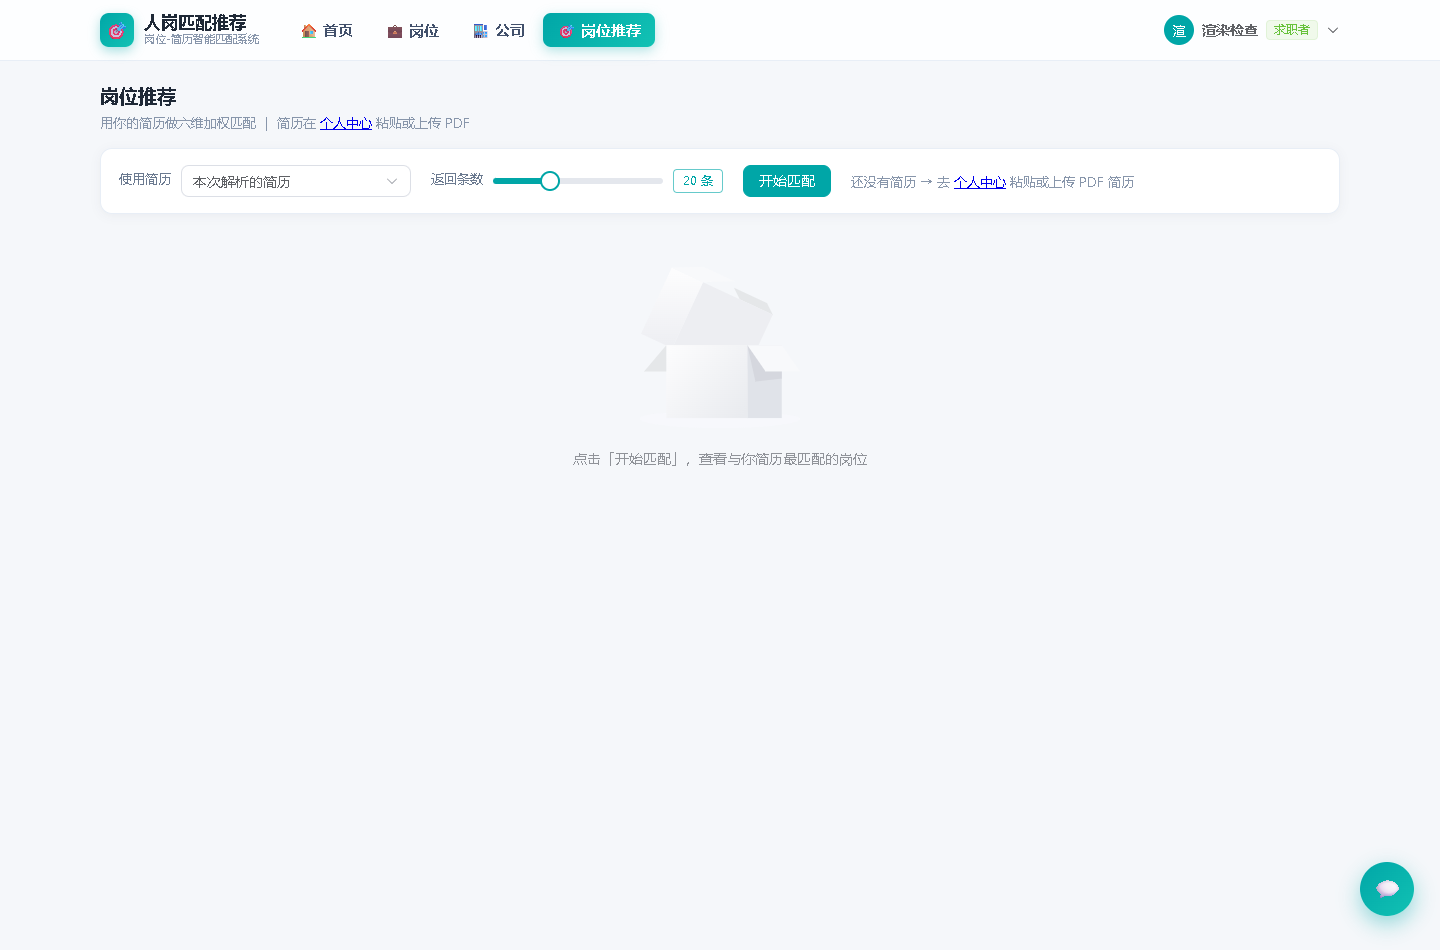
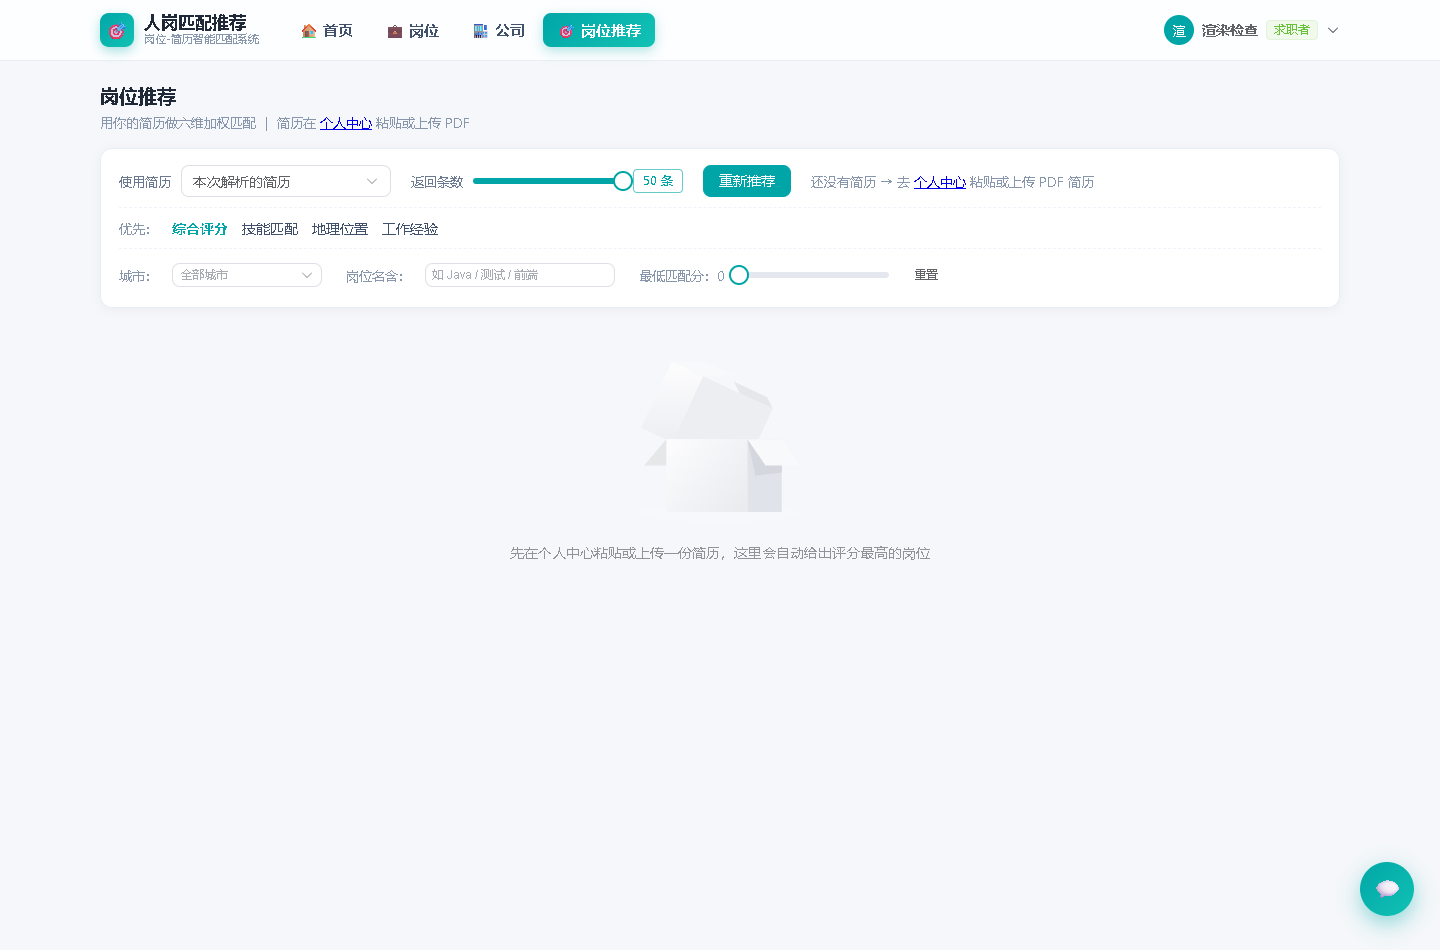
任务11: 岗位推荐页改版（删除顶部5个指标卡与左侧筛选栏；进入页面自动拉满Top-50；优先维度综合/技能/地理/经验移到顶部可切换重排）；修掉选中已存简历未同步store导致自动匹配静默不执行的缺陷；渲染检查更新断言

diff --git a/web/src/views/MatchView.vue b/web/src/views/MatchView.vue
@@ -6,12 +6,12 @@
       <router-link to="/profile">个人中心</router-link> 粘贴或上传 PDF
     </div>
 
-    <!-- 匹配控制条 -->
+    <!-- ① 顶部控制 + 筛选（全部在顶部，没有侧边栏） -->
     <div class="zq-card pad">
       <div class="ctrl">
         <div class="fld">
           <span class="lb">使用简历</span>
-          <el-select v-model="src" style="width:230px" placeholder="选择简历">
+          <el-select v-model="src" style="width:210px" placeholder="选择简历">
             <el-option label="本次解析的简历" value="current" :disabled="!resume.resumeId" />
             <el-option v-for="r in savedList" :key="r.id"
                        :label="'📁 ' + r.title" :value="'saved:' + r.id" />
@@ -19,101 +19,95 @@
         </div>
         <div class="fld">
           <span class="lb">返回条数</span>
-          <el-slider v-model="topN" :min="5" :max="50" :step="5" style="width:170px" />
+          <el-slider v-model="topN" :min="10" :max="50" :step="10" style="width:150px" />
           <el-tag effect="plain">{{ topN }} 条</el-tag>
         </div>
-        <el-button type="primary" :loading="loading" @click="doMatch">开始匹配</el-button>
+        <el-button type="primary" :loading="loading" @click="doMatch">重新推荐</el-button>
         <span v-if="!resume.canMatch()" class="muted">
           还没有简历 → 去 <router-link to="/profile">个人中心</router-link> 粘贴或上传 PDF 简历
         </span>
       </div>
-    </div>
 
-    <!-- 结果区 -->
-    <div v-if="result" style="margin-top:16px">
-      <div class="kpi-row">
-        <div class="kpi"><div class="v">{{ result.推荐数 }}</div><div class="l">推荐岗位数</div></div>
-        <div class="kpi"><div class="v">{{ result.打分范围 }}</div><div class="l">打分范围（个岗位）</div></div>
-        <div class="kpi"><div class="v">{{ result.权重版本 }}</div><div class="l">匹配权重版本</div></div>
-        <div class="kpi"><div class="v">{{ result.耗时秒 }} s</div><div class="l">全量打分耗时</div></div>
-        <div class="kpi"><div class="v">{{ filtered.length }}</div><div class="l">当前筛选后条数</div></div>
+      <!-- 优先维度（点一下换排序口径） -->
+      <div class="frow">
+        <span class="flb">优先：</span>
+        <a v-for="p in PRIORITIES" :key="p.value" :class="{ on: priority === p.value }"
+           @click="priority = p.value">{{ p.label }}</a>
       </div>
 
-      <div class="layout">
-        <!-- 左侧筛选栏（招聘网站风格） -->
-        <aside>
-          <div class="zq-card pad">
-            <div class="zq-section" style="margin-top:0">筛选</div>
-            <div class="lb">城市</div>
-            <el-select v-model="fCity" clearable placeholder="全部城市" style="width:100%">
-              <el-option v-for="c in cities" :key="c" :label="c" :value="c" />
-            </el-select>
-            <div class="lb" style="margin-top:12px">岗位名称含</div>
-            <el-input v-model="fKw" clearable placeholder="如 Java / 测试 / 前端" />
-            <div class="lb" style="margin-top:12px">最低匹配分：{{ fScore }}</div>
-            <el-slider v-model="fScore" :min="0" :max="100" :step="5" />
-            <div class="lb" style="margin-top:4px">排序</div>
-            <el-radio-group v-model="sortBy" size="small">
-              <el-radio-button value="score">匹配分</el-radio-button>
-              <el-radio-button value="salary">薪资</el-radio-button>
-            </el-radio-group>
-            <el-button text style="margin-top:10px" @click="resetFilter">重置筛选</el-button>
-            <div class="muted" style="margin-top:8px">
-              筛选作用于本次返回的 Top-{{ topN }}（前端过滤）
-            </div>
-          </div>
+      <!-- 其他筛选 -->
+      <div class="frow">
+        <span class="flb">城市：</span>
+        <el-select v-model="fCity" clearable placeholder="全部城市" size="small" style="width:150px">
+          <el-option v-for="c in cities" :key="c" :label="c" :value="c" />
+        </el-select>
+        <span class="flb" style="margin-left:10px">岗位名含：</span>
+        <el-input v-model="fKw" clearable size="small" placeholder="如 Java / 测试 / 前端"
+                  style="width:190px" />
+        <span class="flb" style="margin-left:10px">最低匹配分：{{ fScore }}</span>
+        <el-slider v-model="fScore" :min="0" :max="100" :step="5" style="width:150px" />
+        <el-button text size="small" @click="resetFilter">重置</el-button>
+      </div>
 
-          <div class="zq-card pad" style="margin-top:12px">
-            <div class="zq-section" style="margin-top:0">简历摘要</div>
-            <div class="muted" style="line-height:1.9">
-              姓名：{{ result.简历摘要.姓名 }}<br />
-              期望城市：{{ result.简历摘要.期望城市 || '—' }}<br />
-              学历序数：{{ result.简历摘要.学历序数 }}<br />
-              工作年限：{{ result.简历摘要.工作年限 }} 年<br />
-              技能数：{{ result.简历摘要.技能数 }}
-            </div>
-          </div>
-        </aside>
-
-        <!-- 右侧岗位列表 -->
-        <section>
-          <div v-if="!filtered.length" class="zq-card pad" style="text-align:center;color:#8896ab">
-            没有符合筛选条件的岗位，试试放宽条件
-          </div>
-          <div v-for="j in filtered" :key="j.岗位ID" class="job-card" @click="openDetail(j)">
-            <div class="job-top">
-              <div class="job-title">
-                <el-tag v-if="j.排名 <= 3" :type="j.排名 === 1 ? 'danger' : 'warning'"
-                        size="small" effect="dark" style="margin-right:6px">TOP{{ j.排名 }}</el-tag>
-                {{ j.岗位名称 }}
-              </div>
-              <div class="job-salary">{{ j.岗位薪资 || '薪资面议' }}</div>
-            </div>
-            <div class="job-co">{{ j.公司 }}</div>
-            <div class="job-meta">
-              {{ j.城市 || '—' }} ｜ {{ j.经验要求 || '经验不限' }} ｜ {{ j.学历要求 || '学历不限' }}
-              ｜ 匹配度 <b class="salary">{{ j.总分.toFixed(1) }}</b> 分
-            </div>
-            <div class="job-tags">
-              <el-tag size="small" effect="light">技能命中 {{ j.技能命中数 }}/{{ j.岗位技能要求数 }}</el-tag>
-              <el-tag size="small" type="success" effect="light" style="margin-left:6px">
-                余弦 {{ j.余弦分 }}</el-tag>
-              <el-tag size="small" type="info" effect="plain" style="margin-left:6px">
-                距离 {{ j.距离km }} km</el-tag>
-            </div>
-            <div class="muted" style="margin-top:8px">💡 {{ j.推荐理由 }}</div>
-          </div>
-        </section>
+      <!-- 一行摘要：简历 + 结果条数 -->
+      <div v-if="result" class="summary">
+        <span class="muted">
+          {{ result.简历摘要.姓名 }} ｜ 期望城市 {{ result.简历摘要.期望城市 || '—' }}
+          ｜ 工作年限 {{ result.简历摘要.工作年限 }} 年 ｜ 技能 {{ result.简历摘要.技能数 }} 项
+        </span>
+        <span class="right">
+          共 <b class="num">{{ filtered.length }}</b> 条
+        </span>
       </div>
     </div>
 
-    <el-empty v-else description="点击「开始匹配」，查看与你简历最匹配的岗位" />
+    <!-- ② 推荐结果（单列全宽） -->
+    <div v-if="result" v-loading="loading" class="joblist">
+      <el-empty v-if="!filtered.length" description="没有符合筛选条件的岗位，试试放宽条件" />
+      <div v-for="j in filtered" :key="j.岗位ID" class="job-card" @click="openDetail(j)">
+        <div class="job-top">
+          <div class="job-title">
+            <el-tag v-if="j.排名 <= 3" :type="j.排名 === 1 ? 'danger' : 'warning'"
+                    size="small" effect="dark" style="margin-right:6px">TOP{{ j.排名 }}</el-tag>
+            {{ j.岗位名称 }}
+          </div>
+          <div class="job-salary">{{ j.岗位薪资 || '薪资面议' }}</div>
+        </div>
+        <div class="job-co">{{ j.公司 }}</div>
+        <div class="job-meta">
+          {{ j.城市 || '—' }} ｜ {{ j.经验要求 || '经验不限' }} ｜ {{ j.学历要求 || '学历不限' }}
+          ｜ 匹配度 <b class="salary">{{ j.总分.toFixed(1) }}</b> 分
+        </div>
+        <div class="job-tags">
+          <el-tag size="small" :type="priority === 'skill' ? 'success' : 'info'"
+                  :effect="priority === 'skill' ? 'dark' : 'light'">
+            技能 {{ j.技能.toFixed(1) }}</el-tag>
+          <el-tag size="small" :type="priority === 'geo' ? 'success' : 'info'"
+                  :effect="priority === 'geo' ? 'dark' : 'light'" style="margin-left:6px">
+            地域 {{ j.地域.toFixed(1) }}（{{ j.距离km }} km）</el-tag>
+          <el-tag size="small" :type="priority === 'exp' ? 'success' : 'info'"
+                  :effect="priority === 'exp' ? 'dark' : 'light'" style="margin-left:6px">
+            经验 {{ j.经验.toFixed(1) }}</el-tag>
+          <el-tag size="small" effect="plain" style="margin-left:6px">
+            技能命中 {{ j.技能命中数 }}/{{ j.岗位技能要求数 }}</el-tag>
+          <el-tag size="small" effect="plain" style="margin-left:6px">余弦 {{ j.余弦分 }}</el-tag>
+        </div>
+        <div class="muted" style="margin-top:8px">💡 {{ j.推荐理由 }}</div>
+      </div>
+    </div>
+
+    <el-empty v-else-if="!loading" description="先在个人中心粘贴或上传一份简历，这里会自动给出评分最高的岗位" />
   </div>
 </template>
 
 <script setup lang="ts">
 /**
  * 「岗位推荐」页（需登录）：用简历做六维加权匹配。
+ *
+ * · 进入页面**自动拉满评分最高的 50 条**（有简历就自动匹配，不用手动点）
+ * · 顶部可按「优先维度」重排这 50 条：综合评分 / 技能匹配 / 地理位置 / 工作经验
+ * · 顶部另有城市、岗位名关键词、最低匹配分三个筛选；本页**没有侧边栏**
+ * · 点岗位 → 跳该岗位的独立详情页（匹配明细/雷达图在那边）
  * 简历不在本页输入——统一在个人中心粘贴/上传（见 ProfileView）。
  */
 import { computed, onMounted, ref } from 'vue'
@@ -124,59 +118,68 @@ import type { JobRec, ResumeRow } from '../api/types'
 import { useAuthStore } from '../stores/auth'
 import { useResumeStore } from '../stores/resume'
 
+/** 优先维度：默认按综合评分（= 六维加权总分） */
+const PRIORITIES = [
+  { value: 'score', label: '综合评分' },
+  { value: 'skill', label: '技能匹配' },
+  { value: 'geo', label: '地理位置' },
+  { value: 'exp', label: '工作经验' },
+] as const
+
 const auth = useAuthStore()
 const resume = useResumeStore()
 const router = useRouter()
 
 const loading = ref(false)
 const src = ref('current')
-const topN = ref(20)
+const topN = ref(50)                    // 默认拉满 50 条
 const savedList = ref<ResumeRow[]>([])
 const result = ref(resume.matchResult)
 
 const fCity = ref('')
 const fKw = ref('')
 const fScore = ref(0)
-const sortBy = ref<'score' | 'salary'>('score')
+const priority = ref<'score' | 'skill' | 'geo' | 'exp'>('score')
 
 const cities = computed(() => {
   const s = new Set((result.value?.推荐 || []).map((x) => x.城市).filter(Boolean))
   return Array.from(s).sort()
 })
 
-function salaryMid(s: string) {
-  // "10000-15000元·13薪" → 12500
-  const m = String(s || '').match(/(\d+)\D+(\d+)/)
-  return m ? (Number(m[1]) + Number(m[2])) / 2 : 0
-}
+/** 按优先维度排序（同分时用综合评分兜底，保证顺序稳定） */
+const sorted = computed(() => {
+  const list = [...(result.value?.推荐 || [])]
+  const by = {
+    score: (a: JobRec, b: JobRec) => b.总分 - a.总分,
+    skill: (a: JobRec, b: JobRec) => b.技能 - a.技能 || b.总分 - a.总分,
+    geo: (a: JobRec, b: JobRec) => b.地域 - a.地域 || a.距离km - b.距离km || b.总分 - a.总分,
+    exp: (a: JobRec, b: JobRec) => b.经验 - a.经验 || b.总分 - a.总分,
+  }[priority.value]
+  return list.sort(by)
+})
 
 const filtered = computed(() => {
-  let list = [...(result.value?.推荐 || [])]
+  let list = sorted.value
   if (fCity.value) list = list.filter((x) => x.城市 === fCity.value)
   if (fKw.value.trim()) {
     const k = fKw.value.trim()
     list = list.filter((x) => (x.岗位名称 + x.技能标签).includes(k))
   }
-  list = list.filter((x) => x.总分 >= fScore.value)
-  list.sort((a, b) => sortBy.value === 'score' ? b.总分 - a.总分 : salaryMid(b.岗位薪资) - salaryMid(a.岗位薪资))
-  return list
+  return list.filter((x) => x.总分 >= fScore.value)
 })
 
-onMounted(async () => {
-  if (auth.isLogged()) {
-    try {
-      const r = await api.listResumes()
-      savedList.value = r.简历
-      if (!resume.resumeId && savedList.value.length) {
-        const d = savedList.value.find((x) => x.is_default) || savedList.value[0]
-        src.value = 'saved:' + d.id
-      }
-    } catch { /* 忽略 */ }
+function resetFilter() {
+  fCity.value = ''; fKw.value = ''; fScore.value = 0; priority.value = 'score'
+}
+
+async function doMatch(quiet = false) {
+  // 直接用「已保存的简历」匹配时，只要拿到 id 就能匹配（后端按 saved_resume_id 取简历），
+  // 不强制要求 store 里已经有内容——否则"登录后直接进本页"会被判成没有简历
+  const canRun = resume.canMatch() || src.value.startsWith('saved:')
+  if (!canRun) {
+    if (!quiet) ElMessage.warning('请先在个人中心粘贴或上传一份简历')
+    return
   }
-})
-
-async function doMatch() {
-  if (!resume.canMatch()) return ElMessage.warning('请先在个人中心粘贴或上传一份简历')
   loading.value = true
   try {
     const body: api.MatchPayload = { top_n: topN.value }
@@ -186,26 +189,46 @@ async function doMatch() {
     const r = await api.runMatch(body)
     result.value = r
     resume.matchResult = r
-    if (r.已存历史) ElMessage.success('已存入匹配历史')
-    else ElMessage.success('匹配完成')
+    if (!quiet) ElMessage.success(r.已存历史 ? '已重新推荐并存入历史' : '已重新推荐')
   } catch { /* 拦截器已提示 */ }
   finally { loading.value = false }
-}
-
-function resetFilter() {
-  fCity.value = ''; fKw.value = ''; fScore.value = 0; sortBy.value = 'score'
 }
 
 /** 点岗位 → 跳独立详情页（匹配明细/雷达图会显示在那边） */
 function openDetail(j: JobRec) {
   router.push('/job/' + j.岗位ID)
 }
+
+onMounted(async () => {
+  if (auth.isLogged()) {
+    try {
+      const r = await api.listResumes()
+      savedList.value = r.简历
+      if (!resume.resumeId && savedList.value.length) {
+        const d = savedList.value.find((x) => x.is_default) || savedList.value[0]
+        src.value = 'saved:' + d.id
+        // 同步进 store：本页的「用我的简历算匹配分」、岗位详情页的匹配面板都要用
+        resume.useSaved(d.id, d.title, d.text)
+      }
+    } catch { /* 忽略 */ }
+  }
+  // 已有结果就不再打扰；否则自动拉一次 Top-50
+  if (!result.value) await doMatch(true)
+})
 </script>
 
 <style scoped>
 .ctrl { display: flex; align-items: center; gap: 20px; flex-wrap: wrap; }
 .fld { display: flex; align-items: center; gap: 10px; }
-.lb { font-size: 12.5px; color: #6b7a90; display: block; margin-bottom: 6px; }
-.layout { display: grid; grid-template-columns: 268px 1fr; gap: 14px; margin-top: 14px; }
-@media (max-width: 1000px) { .layout { grid-template-columns: 1fr; } }
+.lb { font-size: 12.5px; color: #6b7a90; }
+.frow { display: flex; flex-wrap: wrap; align-items: center; gap: 8px 14px; padding-top: 10px;
+  margin-top: 10px; border-top: 1px dashed #eef3f9; }
+.flb { color: #8896ab; font-size: 13px; flex: none; }
+.frow a { color: #41506b; font-size: 13.5px; cursor: pointer; }
+.frow a:hover { color: var(--el-color-primary); }
+.frow a.on { color: var(--el-color-primary); font-weight: 700; }
+.summary { display: flex; align-items: center; gap: 12px; margin-top: 10px; }
+.summary .right { margin-left: auto; }
+.summary .num { color: #ff6a00; font-size: 16px; }
+.joblist { margin-top: 14px; }
 </style>

diff --git a/docs/测试报告.md b/docs/测试报告.md
@@ -303,6 +303,7 @@ python src/api/score_features.py --validate 10  # 特征口径一致性自检
 ---
 
 > 文档版本：v2.6（2026-09-18，**岗位列表默认排序改为随机后的复核**：`/api/jobs` 新增 `seed` 参数，`sort=default` 用**种子随机**打乱（同 seed 翻页稳定、换 seed 换一批，避免"每页各自随机"导致重复/漏岗位）；`tests/test_jobs.py` 37 → **41 项**（新增 4 项：换 seed 顺序不同且同 seed 一致、三页不重不漏且与一次取 60 条一致、显式排序忽略 seed、无 seed 保持稳定），用例总数 185 → **189 项全绿**；渲染检查新增"两次进入岗位页顺序不同"与"翻页无交集"两项断言（8 路由 0 error）；另用一次性浏览器脚本实测：两次进页面首条不同（品管主管 / Java工程师）、第 1 页与第 2 页 0 重叠、点「默认排序」换一批、薪资从高到低仍严格降序、控制台 0 error；
+> v2.7（2026-09-18，**「岗位推荐」页改版后的复核**：删除顶部 5 个指标卡与左侧筛选栏，进入页面**自动拉满评分最高 50 条**，筛选与"优先维度"（综合评分 / 技能匹配 / 地理位置 / 工作经验）全部置于顶部；顺带修掉"选中已保存简历但未同步 store，导致自动匹配静默不执行"的连带缺陷；渲染检查更新本页断言并把 5 个指标卡字样加入**反向断言**（8 路由 0 error）；另用一次性浏览器脚本实测 16 项：自动匹配 **50 条**、`.kpi` 元素 **0** 个、5 个指标卡字样全部消失、无侧边栏、四个优先维度齐备、切各维度后对应分数**单调不增**（地域 85 ≥ 85…、技能 77.7 ≥ 72.1…、经验 100 ≥ 100…、总分 81.2 ≥ 80…）且四种顺序互不相同、点岗位跳 `/#/job/J1240`、控制台 0 error；**后端用例数不变，仍 189 项全绿**；
 > v2.5（2026-09-18，**岗位详情独立成页 + 问答直达链接后的复核**：新增 `/job/:id` 路由（每岗位独立 URL），所有"点岗位"入口由右侧抽屉改为跳页、`JobDetailDrawer.vue` 删除；Prompt v7 要求回答里给岗位页链接，前端渲染成可点链接；渲染检查路径 7 → **8 个**，新增"`/job/J0001` 页面含职位描述"与"点岗位卡跳到 `/#/job/J0001` 且无抽屉"两项断言；`npm run check:chat` 增加"回答带岗位链接"断言（本轮 1/5 条回答含链接，符合预期：只有列具体岗位的那条才该有）；浏览器实测：问答回答里渲染出 3 个岗位链接 → 点击直达岗位详情页、对话框自动收起、控制台 0 error；**后端用例数不变，仍 185 项全绿**（53.12 s）；
 > v2.4（2026-09-18，**智能问答"更聪明 + 不再像固定答案"改造后的复核**：① `tests/test_api.py` 对话用例 3 → **7 项**（新增"`use_cache=false` 强制真实调用并校验 tokens/工具/来源"、"`history` 多轮追问与 `缓存时间` 字段"、"`history` 类型错误 422"、"缓存命中不再 500"），用例总数 182 → **185 项全绿**（49.13 s，含 7 项真实调用大模型的 `slow` 用例）；② 缺陷清单新增**第 10 条**（缓存命中必 500：把时间字符串当数字做减法）与**第 11 条**（用户反馈"像固定答案"的定位与改造）；③ 新增真实性检查脚本 `npm run check:chat`：强制 `use_cache=false` 连问 **5 个新问题** → **5/5 通过**（每条 `缓存命中=false`、`tokens.prompt>0`、有工具轨迹与来源；`company_query`、`generic_agg` 等新工具真被用上，模型 `deepseek-v4-pro`、Prompt `v6`）；④ 浏览器实测悬浮球：新问题"实时返回"、同一问题显示"缓存（2026-09-18 10:57:01）"、「🔄 重新回答」强制真实调用且答案重生成、追问接得上上文、失败时显示**后端真实错误**，控制台 0 error；⑤ 演示预热 `python scripts/prewarm_chat.py`：8 个演示问题**真实跑一遍**写入缓存（各 5.7~37.9 s、7,990~18,540 tokens）；
 > v2.3（2026-09-18，**智能问答改悬浮球 + 个人中心删「匹配历史」后的复核**：独立 `#/chat` 页取消，改为 `AppLayout` 上的全局悬浮球组件（可拖动、位置持久化、小对话框内提问/看轨迹与来源），个人中心页签 4 → **3 个**；渲染检查路由 8 → **7 个**，新增悬浮球 5 项断言（含"视口改小再恢复位置不丢"——本轮修掉的 bug）与 `#/chat` 重定向断言；实测小框提问 `厦门有哪些 Java 开发岗位？` → 工具 `search_jobs → filter_jobs`、2 轮、11.3 s、缓存命中、2 条来源、控制台 0 error；**后端用例数不变，仍 182 项全绿**（27.07 s）；

diff --git a/web/README.md b/web/README.md
@@ -48,7 +48,7 @@ web/
         ├── HomeView.vue        # ★ 首页推荐：热门分类 hero 轮播 + 地区推荐 + 高薪岗位 + 热门岗位 + 热门企业 + 热门技能
         ├── JobsBrowseView.vue  # ★ 岗位：仿 BOSS直聘 浏览筛选（**默认排序 = 随机打乱**；支持 ?city= / ?source_kw= / ?keyword= / ?sort=）
         ├── JobView.vue         # ★ 岗位详情（**每个岗位独立 URL：/job/J0020**）：JD + 匹配明细 + 同公司其他岗位
-        ├── MatchView.vue       # ★ 岗位推荐（需登录）：用简历做六维加权匹配
+        ├── MatchView.vue       # ★ 岗位推荐（需登录）：进页面自动拉满 Top-50；顶部四个优先维度（综合/技能/地域/经验）+ 筛选
         ├── CompaniesView.vue   # ★ 公司广场：热门/最活跃企业榜 + 筛选 + 公司卡网格
         ├── CompanyView.vue     # ★ 公司详情：全部在招岗位 + 公司画像 + 招聘者 + 相似公司
         └── ProfileView.vue     # 个人中心（3 个子页签：我的简历（唯一一份）/ 收藏 / 账号设置）
@@ -57,6 +57,10 @@ web/
 > **导航与入口约定（2026-09-18 改版）**：
 > 顶部标签只有 **首页 ｜ 岗位 ｜ 公司**（游客可见），登录后追加 **岗位推荐**；**个人中心只从右上角用户下拉进入**（无标签）；
 > **简历没有独立页面**——粘贴正文 / 上传 PDF / 解析 / 保存都在个人中心的「我的简历」页签里，解析完一键去「岗位推荐」；
+> **岗位推荐页**（`/match`，需登录）：进入页面**自动拉满评分最高的 50 条**（有简历就自动匹配），
+> 顶部可切换**优先维度**——综合评分 / 技能匹配 / 地理位置 / 工作经验（切换即重排），
+> 另有城市 / 岗位名含 / 最低匹配分的筛选；**本页没有侧边栏，也没有顶部指标卡**（按反馈删除）。
+>
 > **岗位列表「默认排序」是随机打乱**：后端 `/api/jobs?sort=default&seed=<数字>` 用**种子随机**打乱，
 > 前端每次进入「岗位」页、每次点「默认排序」都换一个新 seed（所以每次顺序都不同）；
 > **同一个 seed 顺序完全稳定**，因此翻页不会重复或漏岗位。显式排序（薪资/回复/在线）忽略 seed。
